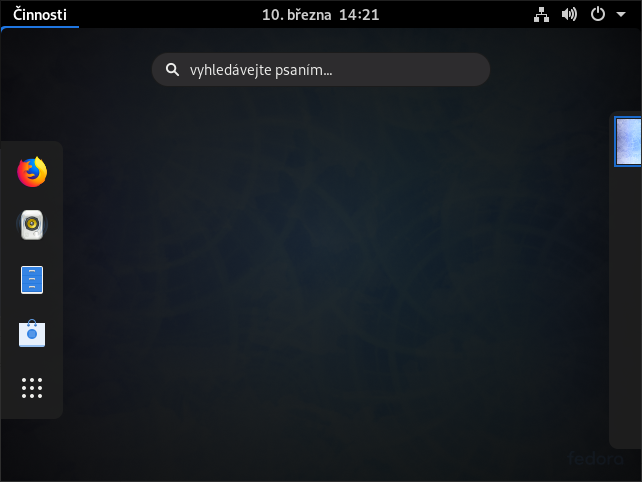
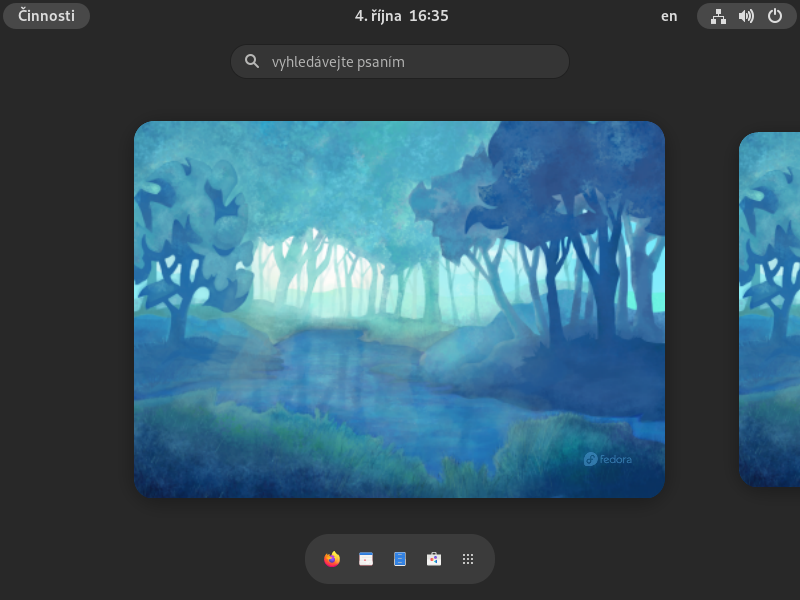
Compiled

diff --git a/gnome-basics/index.html b/gnome-basics/index.html
@@ -9,7 +9,7 @@ My budeme používat prostředí GNOME.</p>
 <p>Kliknutím na <em>Činnosti</em> se ukáže přehled:</p>
 <p><span class="figure"><a href="naucse:static?filename=activities.png"><img src="naucse:static?filename=activities.png" alt="Činnosti"></a></span></p>
 <ul>
-<li><p>Vlevo je lišta ikonek, kterými můžeš spouštět různé programy.
+<li><p>Dole je lišta ikonek, kterými můžeš spouštět různé programy.
 Poslední ikonka, mřížka z teček, otevírá nabídku všech nainstalovaných
 grafických programů.</p>
 </li>
@@ -19,8 +19,11 @@ soubory k otevření, nastavení ke změně, a tak podobně.</p>
 </li>
 <li><p>Uprostřed se ukazují aktuálně otevřená okna, pokud nějaká jsou.</p>
 </li>
-<li><p>Vpravo je seznam <em>virtuálních ploch</em> (angl. <em>Virtual desktops</em>), oddělených
-„prostorů“ pro okýnka, mezi kterými můžeš přepínat.
+<li><p>Vpravo je náhled další <em>virtuálníy plochy</em> (angl. <em>Virtual desktops</em>),
+odděleného „prostoru“ pro okýnka.
+Mezi jednotlivými plochami můžeš přepínat.
+Jakmile otevřeš okna na více plochách, objeví se i jejich seznam,
+kterým mezi nimi lze rychle přepínat.
 Doporučuju to zkoumat, až budeš mít otevřeno několik okýnek.
 Kdyby ti někdy okýnka „zmizela“, koukni sem, jestli nejsou na jiné ploše.</p>
 </li>
@@ -44,10 +47,10 @@ Od teď bude Terminál v liště vlevo, což se určitě bude hodit :)</p>
 </ul>
 <p>Nakonec klikni do pravého horního rohu.
 Ukáže se menu se systémovým nastavením: hlasitost zvuku, připojení k internetu,
-přepnutí uživatele.
+nastavení, vypnutí/odhlášení.
 (Na opravdovém počítači tu najdeš i např. nastavení jasu obrazovky, Bluetooth,
 atd.)
-Dole jsou tlačítka pro nastavení (které doporučuju časem postupně projít, abys 
-zjistila co všechno je možné), zamčení obrazovky a vypnutí počítače.</p>
+Nastavení (doporučuju časem postupně projít, abys zjistila co všechno je
+možné).</p>
 <p><span class="figure"><a href="naucse:static?filename=system-menu.png"><img src="naucse:static?filename=system-menu.png" alt="Systémové menu"></a></span></p>
 <p>Až si dohraješ, virtuální počítač můžeš vypnout.</p>
